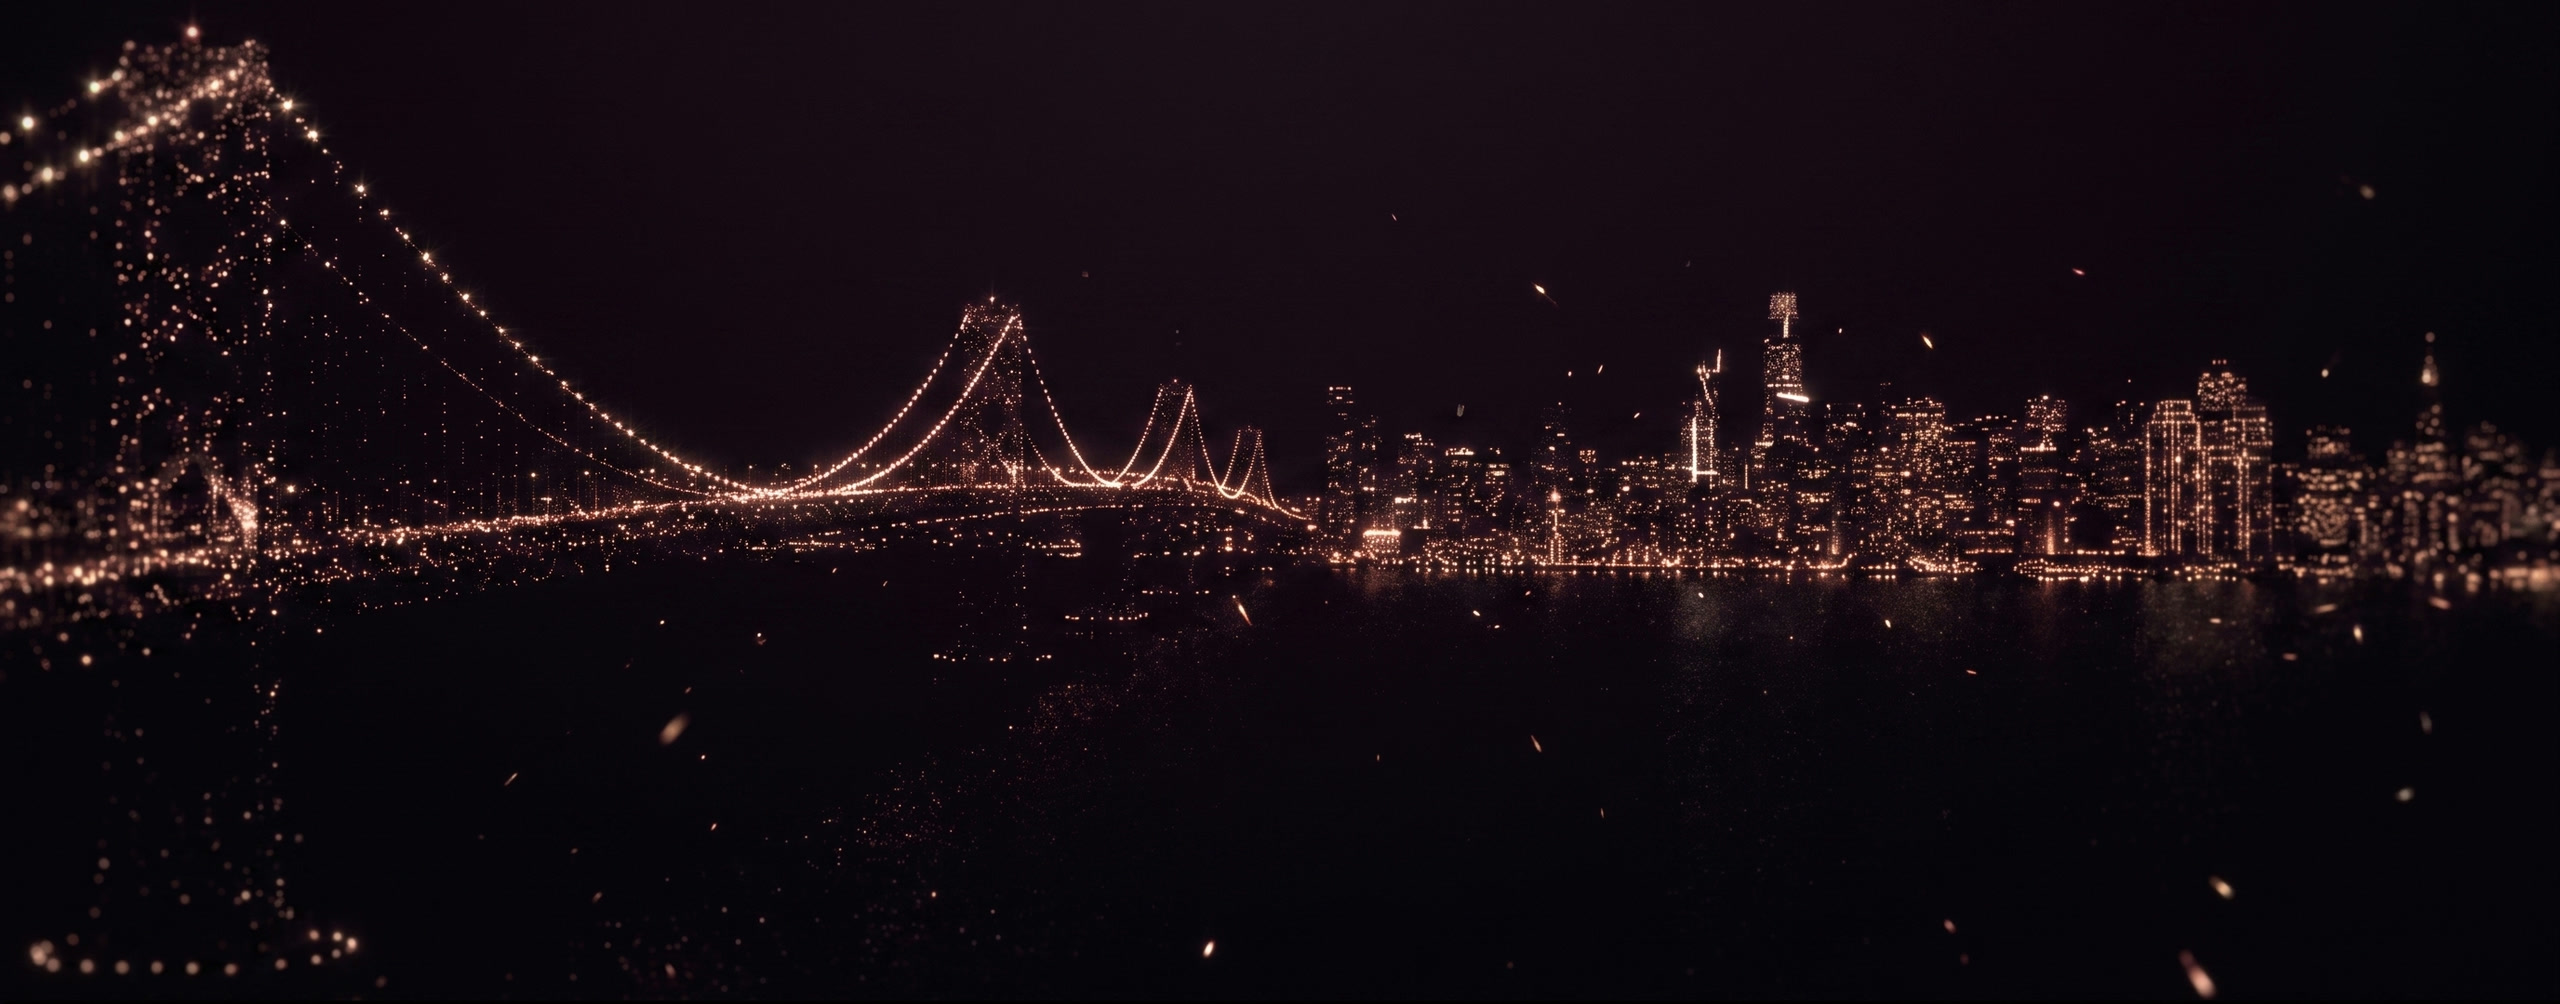
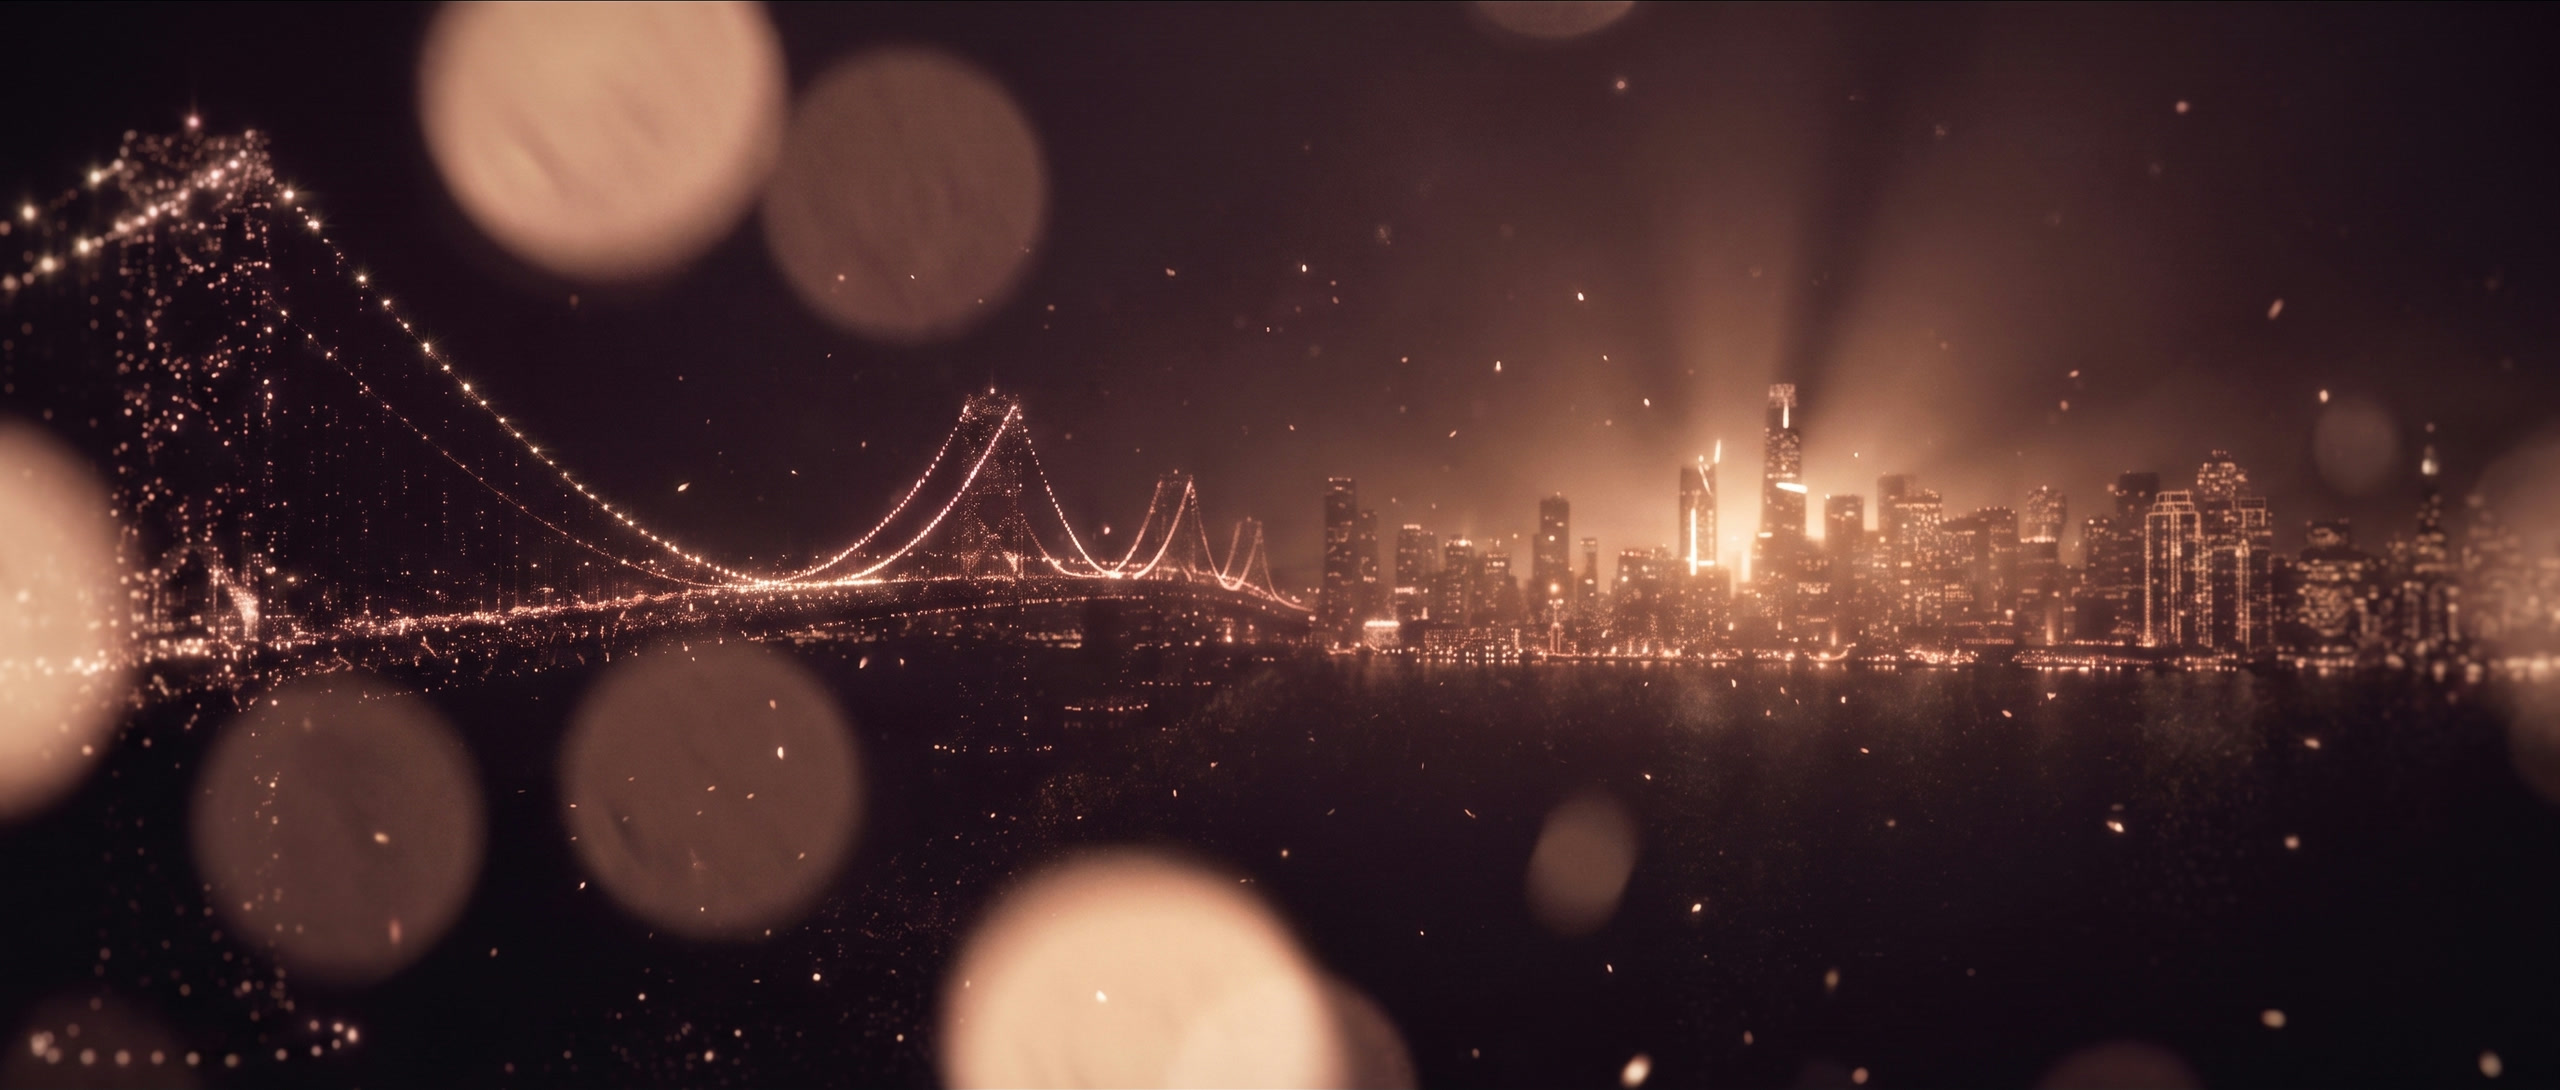
3D backlit sparkle hero: bokeh depth + backlight shafts + volumetric dust (client direction), headline seated with local radial darkening over foreground bokeh

diff --git a/Velari Home v3.dc.html b/Velari Home v3.dc.html
@@ -64,7 +64,7 @@ a:hover { color: #fcf4de; }
     <div style="position:absolute;left:0;right:0;top:24%;height:26%;pointer-events:none;background:radial-gradient(58% 62% at 63% 68%,rgba(252,240,214,0.22) 0%,rgba(252,240,214,0.08) 55%,transparent 80%),radial-gradient(40% 55% at 16% 60%,rgba(252,240,214,0.13) 0%,transparent 75%)"></div>
     <div style="position:absolute;inset:0;background:linear-gradient(to bottom,rgba(6,3,8,0.16) 0%,rgba(6,3,8,0.04) 38%,rgba(5,2,8,0.34) 66%,rgba(4,1,6,0.7) 100%)"></div>
     <div style="position:absolute;inset:0;background:radial-gradient(ellipse at 50% 42%,transparent 60%,rgba(3,1,4,0.38) 100%)"></div>
-    <div style="position:absolute;inset:0;background:linear-gradient(90deg,rgba(10,7,16,0.36) 0%,rgba(10,7,16,0.1) 40%,transparent 60%)"></div>
+    <div style="position:absolute;inset:0;background:linear-gradient(90deg,rgba(10,7,16,0.36) 0%,rgba(10,7,16,0.1) 40%,transparent 60%),radial-gradient(46% 44% at 20% 76%,rgba(8,5,12,0.62) 0%,rgba(8,5,12,0.3) 55%,transparent 78%)"></div>
     <canvas ref="{{ R.fog }}" style="position:absolute;left:0;right:0;top:16%;height:42%;width:100%;will-change:transform;-webkit-mask-image:linear-gradient(to bottom,transparent 0%,black 32%,black 58%,transparent 90%);mask-image:linear-gradient(to bottom,transparent 0%,black 32%,black 58%,transparent 90%)"></canvas>
     <div ref="{{ R.heroDarken }}" style="position:absolute;inset:0;background:#0a0710;opacity:0"></div>
     <div style="position:absolute;left:0;right:0;bottom:0;height:36vh;background:linear-gradient(to bottom,transparent 0%,rgba(10,7,16,0.55) 55%,#0a0710 100%)"></div>
